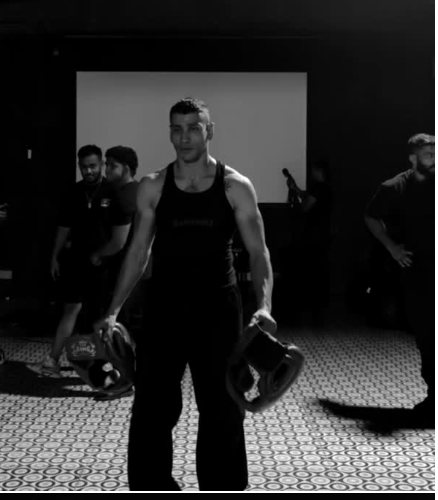
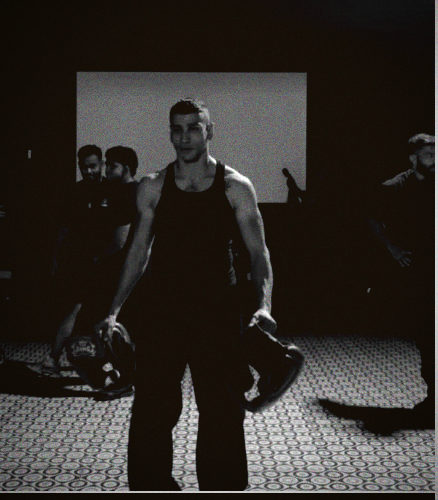
feat(partners): rewrite the concept and draw the ring-table page
The format was backwards. It is not train-then-argue: the room argues
first, and when a disagreement will not resolve or starts to boil over,
either side can call it and they settle it in the ring. Next round
starts. Rewrote the hero, both club panels and all four format steps
around that, and corrected the name to Contrarian Club.

Adds a new page between the two clubs and the format: a drawing of a
table and two chairs in the middle of a boxing ring, gold line on
near-black under a single lamp, with gloves resting on the table. Set as
a CSS background so it stays vector in the PDF. No grain filter on it,
which would force rasterising and take the export from 4.5MB to 22MB.

Photos regraded to a warmer chiaroscuro to sit closer to the brand.

diff --git a/src/app/partners/fight-club/fight-club-brief.tsx b/src/app/partners/fight-club/fight-club-brief.tsx
@@ -57,11 +57,10 @@ export function FightClubBrief() {
           <p className={styles.eyebrow}>Partnership brief</p>
           <h1>Body and mind in the same room.</h1>
           <p className={styles.lead}>
-            Contrarian runs Bengaluru&apos;s biggest debate nights. Fight Club
-            trains the city&apos;s strikers and puts them in the ring. One
-            evening built from both: the room spars, then it argues. The people
-            who show up are the people a performance brand spends all year
-            trying to reach.
+            Contrarian Club runs Bengaluru&apos;s biggest nights of argument.
+            Fight Club brings people together for a taste of combat. One evening
+            built from both: the room argues, then it settles it in the ring.
+            Everyone who shows up performs, intellectually and physically.
           </p>
         </div>
         <p className={styles.scrollNote}>Bengaluru, India &middot; 2026</p>
@@ -78,7 +77,7 @@ export function FightClubBrief() {
           />
           <div className={styles.roomShade} />
           <p className={styles.roomKicker}>The argument</p>
-          <h2>The Contrarian Debate Club</h2>
+          <h2>Contrarian Club</h2>
           <p>
             Live debate nights where the room votes on the motion, questions
             come from the floor, and the result is how many minds moved. Nine
@@ -102,9 +101,9 @@ export function FightClubBrief() {
           <p className={styles.roomKicker}>The ring</p>
           <h2 className={styles.fcMark}>Fight Club Bengaluru</h2>
           <p>
-            Morning striking sessions at Concept01 Koramangala, run as numbered
-            volumes. Each one drills a theme, from fundamentals to aggression
-            and composure, and ends with everyone sparring.
+            Striking sessions at Concept01 Koramangala, run as numbered volumes.
+            Each drills a theme, from fundamentals to aggression and composure,
+            and ends with everyone sparring. A room that comes to taste combat.
           </p>
           <ul className={styles.roomFacts}>
             <li>10+ volumes run</li>
@@ -114,51 +113,57 @@ export function FightClubBrief() {
         </article>
       </section>
 
+      <section className={styles.idea} aria-label="The idea">
+        <div className={styles.ideaCopy}>
+          <p className={styles.sectionLabel}>The idea</p>
+          <h2>Two chairs. One ring.</h2>
+          <p>
+            Every argument gets a table. The ones that will not resolve get the
+            ring. Same room, same night, same people, and nobody leaves
+            wondering who was right.
+          </p>
+        </div>
+      </section>
+
       <section className={styles.format}>
         <div className={styles.formatIntro}>
           <p className={styles.sectionLabel}>The format</p>
-          <h2>Train first. Then argue.</h2>
+          <h2>Argue. Then settle it.</h2>
           <p className={styles.formatLead}>
-            One night, run on the Contrarian spine, with a Fight Club session
-            bolted to the front of it.
+            Talk until talking runs out. Then take it to the ring.
           </p>
         </div>
         <ol className={styles.steps}>
           <li>
             <span className={styles.stepNumber}>01</span>
-            <h3>The session</h3>
+            <h3>The room argues</h3>
             <p>
-              A Fight Club striking class opens the night: warm-up, drills on
-              the evening&apos;s theme, and controlled sparring. Some in the
-              room train, the rest watch it happen up close.
+              A motion is put to the room. Two people take opposite sides, the
+              floor joins in, everyone votes first. Standard Contrarian rules.
             </p>
           </li>
           <li>
             <span className={styles.stepNumber}>02</span>
-            <h3>The room takes a side</h3>
+            <h3>Someone calls it</h3>
             <p>
-              A motion drawn from the world we just watched: whether aggression
-              beats composure, whether pain is a good teacher, whether risking
-              the body is worth it. Everyone votes before a word is said.
+              When the argument stops moving, or starts to boil over, either
+              side can call it. Enough talking. Gloves on.
             </p>
           </li>
           <li>
             <span className={styles.stepNumber}>03</span>
-            <h3>The debate</h3>
+            <h3>They settle it in the ring</h3>
             <p>
-              Contrarian&apos;s format: two sides hold the floor, the audience
-              rebuts and asks, claims get checked on screen. Fighters and
-              debaters in the same argument, which is a fight most rooms never
-              get to see.
+              Fight Club takes over. A few refereed rounds in proper gear, the
+              disagreement worked out with hands instead of words.
             </p>
           </li>
           <li>
             <span className={styles.stepNumber}>04</span>
-            <h3>The room votes again</h3>
+            <h3>Next round</h3>
             <p>
-              The swing between the two votes is the result. Then it becomes
-              content: the motion, the best exchanges, the knockout line,
-              published to both audiences.
+              Back to the floor. New motion, new pairing. The room votes again
+              at the end, and the swing between the votes is the result.
             </p>
           </li>
         </ol>

diff --git a/src/app/partners/fight-club/fight-club.module.css b/src/app/partners/fight-club/fight-club.module.css
@@ -263,6 +263,49 @@
   text-transform: uppercase;
 }
 
+/* The idea ---------------------------------------------------------- */
+
+/* The concept in one drawing: a table and two chairs in the middle of a ring,
+   gold line on near-black. Set as a background so it prints without needing
+   the image optimiser to serve SVG. */
+.idea {
+  position: relative;
+  display: flex;
+  flex-direction: column;
+  justify-content: flex-start;
+  min-height: clamp(520px, 56vw, 780px);
+  padding: clamp(48px, 6vw, 100px) clamp(24px, 8vw, 128px);
+  background-color: #0b0907;
+  background-image: url("/media/fight-club/ring-table.svg");
+  background-size: cover;
+  background-position: center;
+  background-repeat: no-repeat;
+  color: #f8f1e4;
+}
+
+.idea .sectionLabel {
+  color: var(--gold);
+}
+
+.ideaCopy {
+  position: relative;
+  z-index: 1;
+  max-width: 30ch;
+}
+
+.idea h2 {
+  font-size: clamp(2.3rem, 4.2vw, 4.1rem);
+  line-height: 0.94;
+}
+
+.ideaCopy p:not(.sectionLabel) {
+  max-width: 34ch;
+  margin: clamp(18px, 2.2vw, 26px) 0 0;
+  color: #d9cfbe;
+  font-size: 1.04rem;
+  line-height: 1.55;
+}
+
 /* The format -------------------------------------------------------- */
 
 .format {
@@ -750,6 +793,7 @@
 
   .hero,
   .rooms,
+  .idea,
   .format,
   .audience,
   .reach,
@@ -824,6 +868,18 @@
   .roomFacts li {
     padding: 2mm 3mm;
     font-size: 7pt;
+  }
+
+  .idea {
+    justify-content: flex-start;
+    padding: 16mm 22mm;
+  }
+  .idea h2 {
+    font-size: 30pt;
+  }
+  .ideaCopy p:not(.sectionLabel) {
+    font-size: 10.5pt;
+    line-height: 1.45;
   }
 
   .format {
